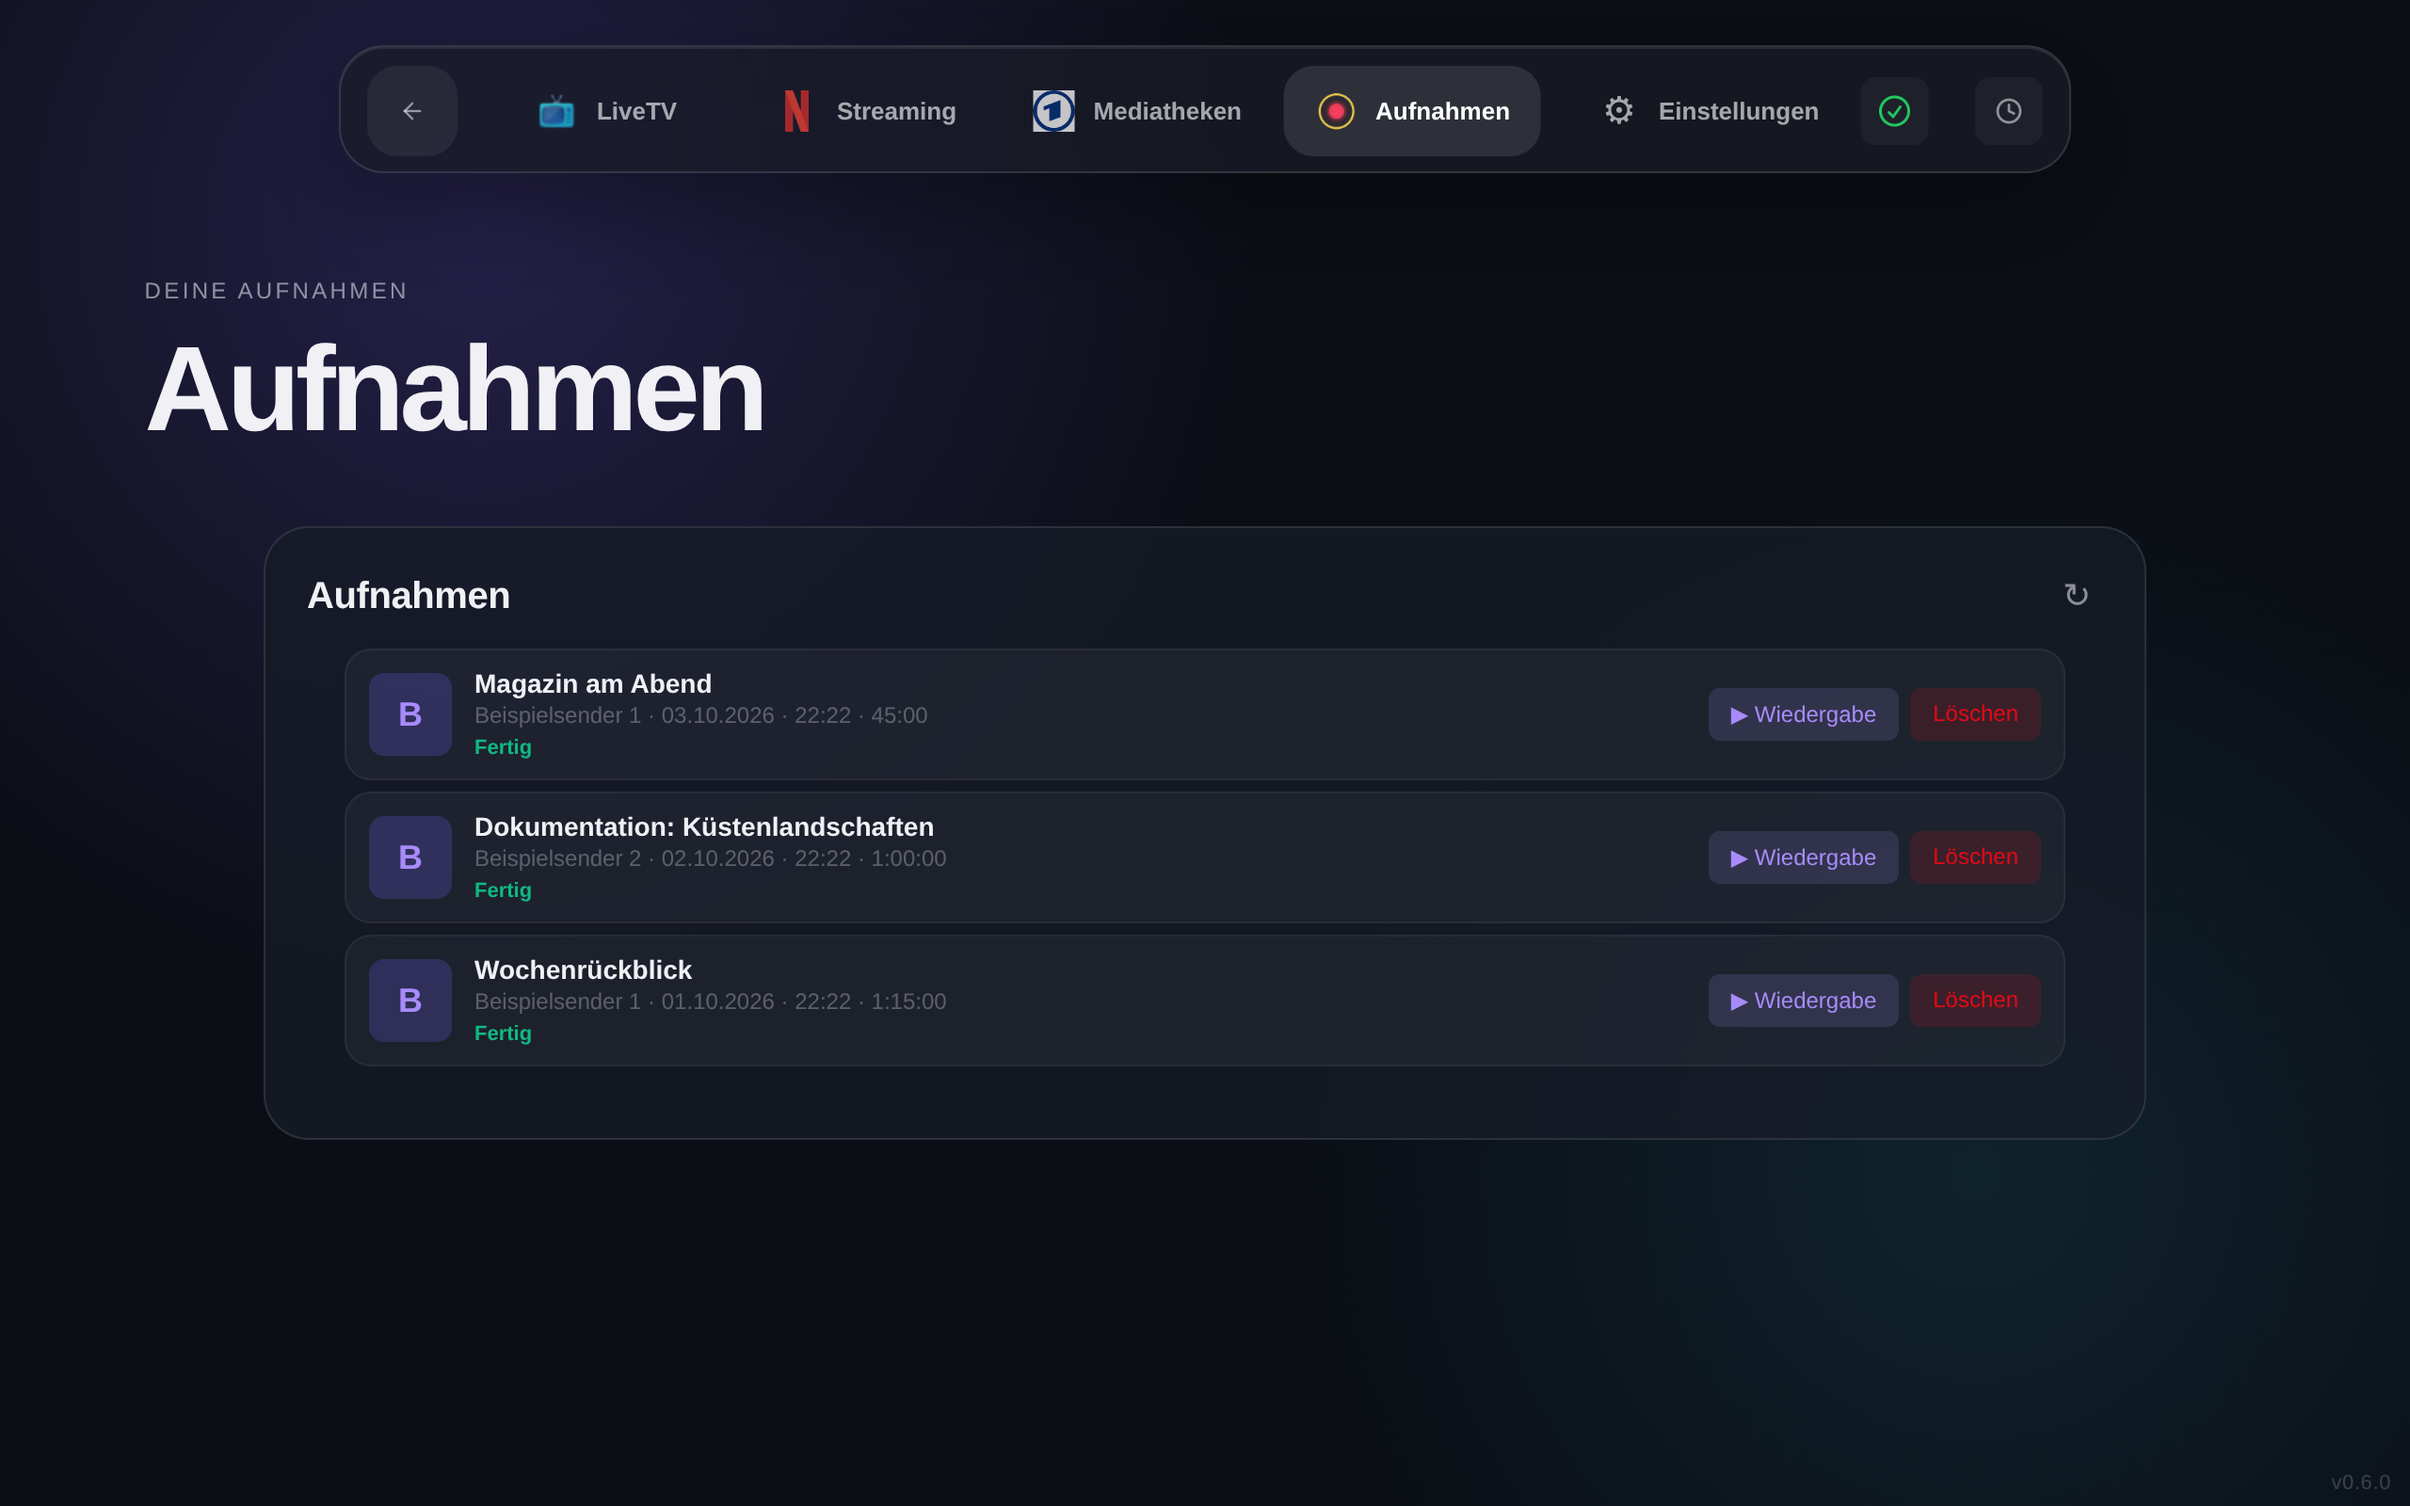
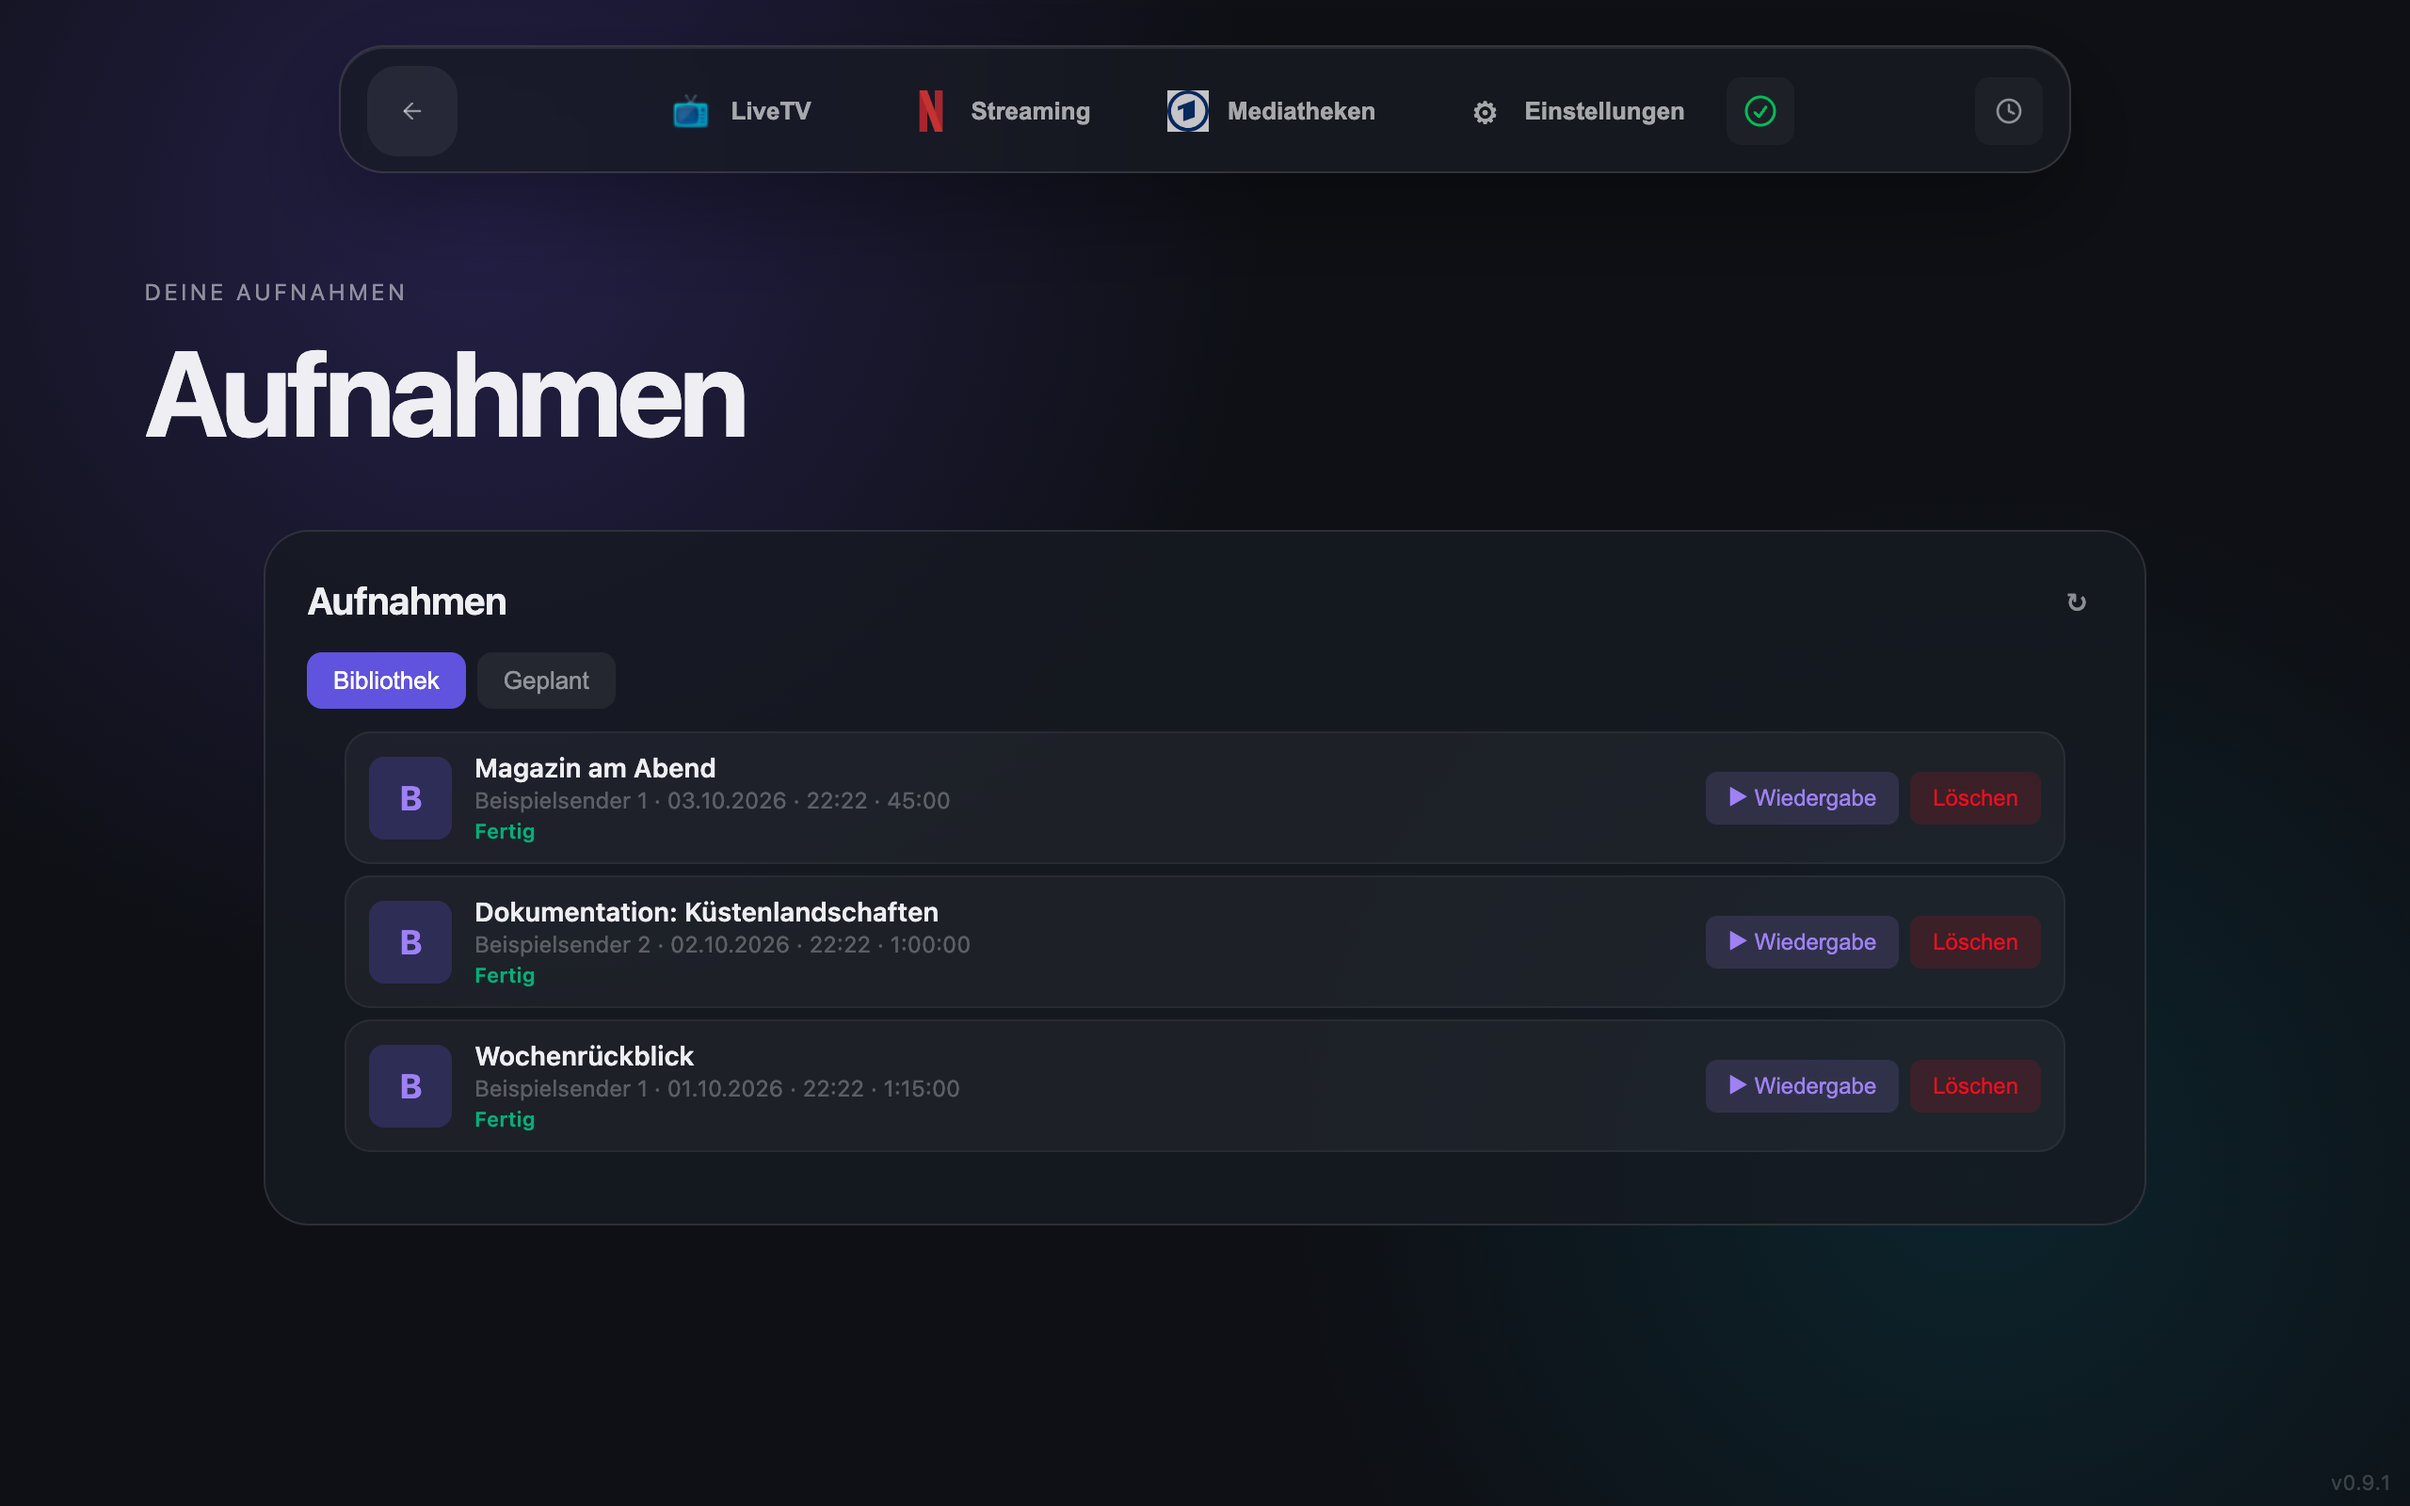
docs(readme): Screenshots auf die UI 0.9.1 aktualisiert (NavBar ohne Aufnahmen, LiveTV-Hub, 4 Kacheln)
Neu erzeugt mit scripts/readme-screenshots.js (isoliertes Profil, nur Beispieldaten):
startseite, navbar, livetv-dashboard, aufnahmen-dashboard, tv-senderverwaltung,
settings, einstellungen-aufnahmen, verlauf.

diff --git a/scripts/readme-screenshots.js b/scripts/readme-screenshots.js
@@ -1,0 +1,181 @@
+'use strict';
+
+// Erzeugt die README-Screenshots (assets/screenshots/*.png, außer den epg-*-Bildern) aus einem isolierten Profil
+// mit reinen Beispieldaten: Beispielsender 1-10, EPG-Fixture (STREAMING_HUB_EPG_FIXTURE), eine geplante und drei
+// fertige Beispiel-Aufnahmen, vier Verlaufseinträge. Kein Zugriff auf echte Nutzerdaten (userData/HOME liegen unter
+// /tmp/shsh; die Pfade erscheinen in den Bildern bewusst neutral).
+//
+// Aufruf (vorher `npm run build:renderer`; Fenster 1280x800 bei Skalierung 2 ergibt 2560x1600 px wie die bestehenden Bilder):
+//   node scripts/readme-screenshots.js [Zielordner]      Standard: assets/screenshots
+// Voraussetzung: bin/ffmpeg + bin/ffprobe (für den ffmpeg-Status in den Einstellungen).
+// Die Datei ist nur für Doku-Zwecke und wird nicht ausgeliefert-relevant (scripts/ ist vom Lint ausgenommen).
+
+const fs = require('fs');
+const path = require('path');
+const { _electron: electron } = require('@playwright/test');
+const { resolveLaunchTarget, launchArgs } = require('../e2e/platform');
+
+const OUT = path.resolve(process.argv[2] || path.join(__dirname, '..', 'assets', 'screenshots'));
+const ROOT = '/tmp/shsh';
+const HOME = path.join(ROOT, 'home');
+const USER_DATA = path.join(ROOT, 'ud');
+const LOGOS = '/tmp/l';
+const MIN = 60 * 1000;
+const sleep = ms => new Promise(resolve => setTimeout(resolve, ms));
+
+const COLORS = ['#6c5ce7', '#e0527a', '#2db4c8', '#e8a33c', '#52b86f', '#a46fdc', '#4a8fe0', '#d8704a', '#5fb0a0', '#9a8fe8'];
+const EPG_TITLES = [
+  ['Kurzfilm der Woche', 55, 95],
+  ['Krimi-Reihe: Folge 3', 70, 40],
+  ['Quiz am Abend', 90, 25],
+  ['Natur erleben', 45, 55],
+  ['Quiz am Abend', 5, 85],
+  ['Konzertabend', 80, 20],
+];
+
+function xmltvTime(ms) {
+  const d = new Date(ms);
+  const p = n => String(n).padStart(2, '0');
+  return `${d.getUTCFullYear()}${p(d.getUTCMonth() + 1)}${p(d.getUTCDate())}${p(d.getUTCHours())}${p(d.getUTCMinutes())}00 +0000`;
+}
+
+function prepare(base) {
+  fs.rmSync(ROOT, { recursive: true, force: true });
+  fs.rmSync(LOGOS, { recursive: true, force: true });
+  fs.mkdirSync(HOME, { recursive: true });
+  fs.mkdirSync(USER_DATA, { recursive: true });
+  fs.mkdirSync(LOGOS, { recursive: true });
+  const channels = [];
+  for (let i = 1; i <= 10; i += 1) {
+    fs.writeFileSync(
+      path.join(LOGOS, `${i}.svg`),
+      `<svg xmlns="http://www.w3.org/2000/svg" viewBox="0 0 100 100"><rect width="100" height="100" rx="18" fill="${COLORS[i - 1]}"/><text x="50" y="66" font-family="Helvetica,Arial,sans-serif" font-size="46" font-weight="700" text-anchor="middle" fill="#fff">B${i}</text></svg>`,
+    );
+    channels.push({ id: `bs${i}.example`, name: `Beispielsender ${i}`, logo: `file://${LOGOS}/${i}.svg` });
+  }
+  const m3u = path.join(ROOT, 'beispiel.m3u');
+  fs.writeFileSync(m3u, '#EXTM3U\n' + channels.map(c => `#EXTINF:-1 tvg-id="${c.id}" tvg-logo="${c.logo}" group-title="Allgemein",${c.name}\nhttp://streams.invalid/${c.id}.m3u8\n`).join(''));
+  const programmes = [];
+  EPG_TITLES.forEach(([title, startedMin, restMin], i) => {
+    const id = `bs${i + 1}.example`;
+    programmes.push(`<programme start="${xmltvTime(base - startedMin * MIN)}" stop="${xmltvTime(base + restMin * MIN)}" channel="${id}"><title>${title}</title><desc>Beispielbeschreibung zu ${title}.</desc></programme>`);
+    programmes.push(`<programme start="${xmltvTime(base + (restMin + 60 * (i + 1)) * MIN)}" stop="${xmltvTime(base + (restMin + 60 * (i + 1) + 60) * MIN)}" channel="${id}"><title>Abendprogramm ${i + 1}</title><desc>Beispielbeschreibung.</desc></programme>`);
+  });
+  const epg = path.join(ROOT, 'epg.xml');
+  fs.writeFileSync(epg, `<?xml version="1.0" encoding="UTF-8"?><tv>${channels.slice(0, 6).map(c => `<channel id="${c.id}"><display-name>${c.name}</display-name></channel>`).join('')}${programmes.join('')}</tv>`);
+  fs.writeFileSync(
+    path.join(USER_DATA, 'tvsources.json'),
+    JSON.stringify([{ id: 'bsq', name: 'Beispielquelle', url: m3u, type: 'file', color: '#a78bfa', epgUrl: 'https://epg.example/epg.xml', sortOrder: [], favorites: channels.slice(0, 6).map(c => c.id) }]),
+  );
+  // Fertige Beispiel-Aufnahmen (Meta-Dateien + Index; keine echten Mediendateien)
+  const lib = path.join(HOME, 'Videos', 'Streaming Hub', 'Aufnahmen');
+  const recs = [
+    ['rec_20261003_a', 'Beispielsender 1', 'bs1.example', 'Magazin am Abend', 3, 45 * 60],
+    ['rec_20261002_b', 'Beispielsender 2', 'bs2.example', 'Dokumentation: Küstenlandschaften', 2, 60 * 60],
+    ['rec_20261001_c', 'Beispielsender 1', 'bs1.example', 'Wochenrückblick', 1, 75 * 60],
+  ].map(([id, channelName, channelId, epgTitle, day, durationSec]) => {
+    const start = new Date(2026, 9, day, 22, 22, 0);
+    return { id, channelId, channelName, epgTitle, epgDescription: null, startedAt: start.toISOString(), stoppedAt: new Date(start.getTime() + durationSec * 1000).toISOString(), durationSec, fileSizeBytes: null, sourceUrl: 'http://streams.invalid/x.m3u8', status: 'completed', outputFile: null, lastError: null };
+  });
+  fs.mkdirSync(lib, { recursive: true });
+  recs.forEach(r => {
+    fs.mkdirSync(path.join(lib, r.id), { recursive: true });
+    fs.writeFileSync(path.join(lib, r.id, `${r.id}.recording.json`), JSON.stringify(r, null, 2));
+  });
+  fs.writeFileSync(path.join(lib, 'recordings.json'), JSON.stringify(recs, null, 2));
+  return epg;
+}
+
+(async () => {
+  const base = Math.floor(Date.now() / MIN) * MIN;
+  const epg = prepare(base);
+  fs.mkdirSync(OUT, { recursive: true });
+  const target = resolveLaunchTarget();
+  const app = await electron.launch({
+    executablePath: target.executablePath,
+    args: [...launchArgs(target), '--force-device-scale-factor=2'],
+    env: { ...process.env, HOME, STREAMING_HUB_USER_DATA: USER_DATA, STREAMING_HUB_EPG_FIXTURE: epg, STREAMING_HUB_UPDATE_URL: 'http://127.0.0.1:9' },
+    timeout: 45_000,
+  });
+  const page = await app.firstWindow();
+  await page.waitForLoadState('domcontentloaded');
+  await page.locator('#dashboardView').waitFor();
+  await app.evaluate(({ BrowserWindow }) => BrowserWindow.getAllWindows()[0].setContentSize(1280, 800));
+  await sleep(800);
+
+  // EPG-Cache abwarten, eine Beispiel-Planung anlegen
+  for (let i = 0; i < 60; i += 1) {
+    const status = await page.evaluate(() => window.electronAPI.getEpgStatus());
+    if (status.sources.reduce((n, s) => n + s.channelCount, 0) >= 6) break;
+    await sleep(500);
+  }
+  const iso = ms => new Date(ms).toISOString().replace(/\.\d{3}Z$/, 'Z');
+  await page.evaluate(
+    r => window.electronAPI.addSchedule(r),
+    { channelId: 'bs1.example', channelName: 'Beispielsender 1', tvgId: 'bs1.example', sourceId: 'bsq', title: 'Abendprogramm 1', epgStart: iso(base + 155 * MIN), epgStop: iso(base + 215 * MIN) },
+  );
+  for (const entry of [
+    { title: 'TV: Dokukanal', serviceKey: '__tv__', serviceName: 'Beispielsender 4' },
+    { title: 'Beispielfilm: Die lange Reise', serviceKey: 'netflix', serviceName: 'Netflix' },
+    { title: 'Beispiel-Dokumentation: Küstenlandschaften', serviceKey: 'youtube', serviceName: 'YouTube' },
+    { title: 'TV: Beispielsender 2', serviceKey: '__tv__', serviceName: 'Beispielsender 2' },
+  ]) {
+    await page.evaluate(e => window.electronAPI.saveHistoryEntry(e), entry);
+    await sleep(50);
+  }
+  await sleep(1500);
+
+  const park = () => page.mouse.move(640, 760);
+  const shot = async name => {
+    await park();
+    await sleep(700);
+    await page.screenshot({ path: path.join(OUT, name) });
+    console.log('ok', name);
+  };
+  const nav = key => page.locator(`#overlayNav [data-section="${key}"]`);
+
+  await shot('startseite.png');
+  await page.locator('.dashboard-section-tile[data-section="streaming"]').click();
+  await page.locator('#dashboardTitle').filter({ hasText: 'Streaming' }).waitFor();
+  await shot('navbar.png');
+  await nav('livetv').click();
+  await page.locator('#dashboardHub').waitFor({ state: 'visible' });
+  await page.locator('.hub-card-recordings .hub-card-status', { hasText: 'geplant' }).waitFor();
+  await sleep(1500);
+  await shot('livetv-dashboard.png');
+
+  await page.locator('#dashboardRecordingsOpen').click();
+  await page.locator('#dashboardTitle').filter({ hasText: 'Aufnahmen' }).waitFor();
+  await sleep(800);
+  await shot('aufnahmen-dashboard.png');
+
+  await nav('settings').click();
+  await page.locator('#settingsNav').waitFor();
+  const group = page.locator('#settingsNav .settings-nav-group');
+  if ((await group.getAttribute('aria-expanded')) !== 'true') await group.click();
+  await page.locator('#settingsTab-livetv-channels').click();
+  await page.locator('#settingsTvChannelsList').waitFor();
+  await sleep(600);
+  await shot('settings.png');
+  await page.locator('#settingsTvChannelsList').getByRole('button', { name: 'Bearbeiten' }).first().click();
+  await sleep(600);
+  await shot('tv-senderverwaltung.png');
+  await page.locator('#settingsTab-livetv-recordings').click();
+  await sleep(1500);
+  await shot('einstellungen-aufnahmen.png');
+
+  await nav('livetv').click();
+  await sleep(500);
+  await page.keyboard.press('Control+h');
+  await page.locator('.history-entry').first().waitFor();
+  await sleep(600);
+  await shot('verlauf.png');
+
+  await app.close().catch(() => {});
+  fs.rmSync(ROOT, { recursive: true, force: true });
+  fs.rmSync(LOGOS, { recursive: true, force: true });
+  process.exit(0);
+})().catch(err => {
+  console.error(err);
+  process.exit(1);
+});

diff --git a/README.md b/README.md
@@ -93,7 +93,7 @@ Die Startseite bündelt die Bereiche Live-TV, Streaming, Mediatheken und Einstel
 
 In den Bereichen erscheint die Navigationsleiste am oberen Bildschirmrand. Sie wechselt zwischen Live-TV, Streaming, Mediatheken und Einstellungen. Läuft eine Aufnahme, zeigt der Live-TV-Eintrag einen kleinen roten Punkt; den Aufnahmen-Bereich öffnest du über die Karte **Aufnahmen** im Live-TV-Dashboard.
 
-![Navigationsleiste und Streaming-Dashboard](assets/screenshots/navbar.png)
+![Navigationsleiste (LiveTV, Streaming, Mediatheken, Einstellungen) und Streaming-Dashboard](assets/screenshots/navbar.png)
 
 ### Streaming-Dienste nutzen
 
@@ -105,7 +105,7 @@ Nach dem Klick auf einen Dienst wird die Webseite im Hauptbereich geladen. Deine
 
 Wähle in der Navigationsleiste **LiveTV**. Oben stehen zwei große Karten: **Programmübersicht** öffnet den Programmführer (die Statuszeile nennt den EPG-Stand und die Zahl der Favoriten), **Aufnahmen** öffnet den Aufnahmen-Bereich (die Statuszeile zeigt, wie viele Aufnahmen laufen, geplant oder fertig sind; fehlt ffmpeg, steht dort ein Hinweis). Darunter folgt eine Werkzeugleiste mit **Senderverwaltung**, **Status** und **EPG aktualisieren**, danach die Favoriten als Kacheln.
 
-![Live-TV-Dashboard mit Favoriten und aktueller Sendung](assets/screenshots/livetv-dashboard.png)
+![Live-TV-Dashboard mit den Karten Programmübersicht und Aufnahmen, Werkzeugleiste und Favoriten (Beispieldaten)](assets/screenshots/livetv-dashboard.png)
 
 #### Sender verwalten
 
